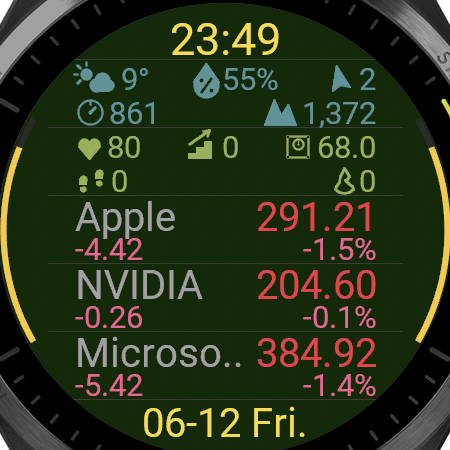
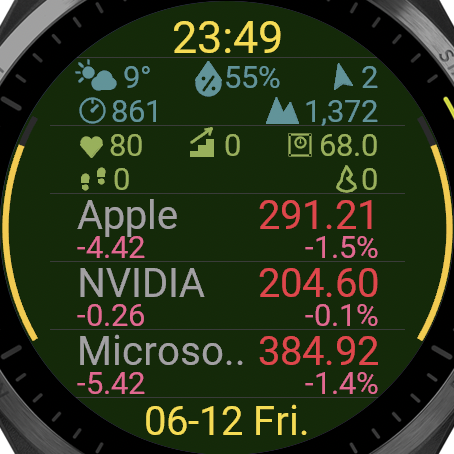
MW manual: List figure at native 454px, date no longer clipped
454x454 crop (center 339,458) so the full display fits the round stage —
clock at top, date at bottom. Cache-bust v3.

diff --git a/marketwatch/manual/index.html b/marketwatch/manual/index.html
@@ -175,7 +175,7 @@
 
       <figure class="annotated">
         <div class="stage">
-          <img src="screens/list.png?v=2" alt="List screen">
+          <img src="screens/list.png?v=3" alt="List screen">
           <svg class="overlay" viewBox="0 0 500 500" width="100%" height="100%" preserveAspectRatio="xMidYMid meet"></svg>
         </div>
         <figcaption data-en="List screen — symbols, info bars and rim meters in one view." data-ja="リスト画面 — 銘柄・情報バー・リムメーターを 1 画面に。">List screen — symbols, info bars and rim meters in one view.</figcaption>
